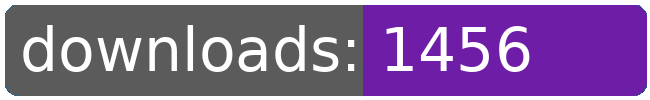
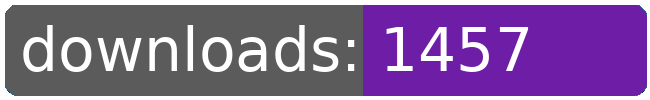
dl log written

Changed region(s): [[0.7692, 0.24, 0.8308, 0.72]]

diff --git a/README.md b/README.md
@@ -21,8 +21,8 @@
 		<td>1373</td>
 		<td>1405</td>
 		<td>1430</td>
-		<td>1456</td>
-		<td>+ 26</td>
+		<td>1457</td>
+		<td>+ 27</td>
 	</tr>
 	<tr>
 		<td>aberrant.kahet.outfitter</td>
@@ -252,8 +252,8 @@
 		<td></td>
 		<td></td>
 		<td></td>
-		<td>20014</td>
-		<td>425</td>
+		<td>20015</td>
+		<td>426</td>
 	</tr>
 </table>
 </sub></sup>
@@ -311,8 +311,8 @@
 		<td>1373</td>
 		<td>1405</td>
 		<td>1430</td>
-		<td>1456</td>
-		<td>+ 26</td>
+		<td>1457</td>
+		<td>+ 27</td>
 	</tr>
 	<tr>
 		<td>purchase.bactrian</td>
@@ -509,8 +509,8 @@
 		<td></td>
 		<td></td>
 		<td></td>
-		<td>20014</td>
-		<td>425</td>
+		<td>20015</td>
+		<td>426</td>
 	</tr>
 </table>
 </sub></sup>
@@ -538,7 +538,7 @@
 		<td>84</td>
 		<td>46</td>
 		<td>18</td>
-		<td>35</td>
+		<td>38</td>
 	</tr>
 	<tr>
 		<td>unique visitors</td>
@@ -550,7 +550,7 @@
 		<td>12</td>
 		<td>13</td>
 		<td>9</td>
-		<td>16</td>
+		<td>17</td>
 	</tr>
 </table>
 <br>
@@ -564,8 +564,8 @@
 	</tr>
 	<tr>
 		<td>2025-10-15</td>
-		<td>2536</td>
-		<td>509</td>
+		<td>2539</td>
+		<td>510</td>
 		<td>192</td>
 		<td>21</td>
 	</tr>
@@ -578,8 +578,8 @@
 	</tr>
 	<tr>
 		<td>52</td>
-		<td>48.77</td>
-		<td>9.79</td>
+		<td>48.83</td>
+		<td>9.81</td>
 		<td></td>
 		<td></td>
 	</tr>
